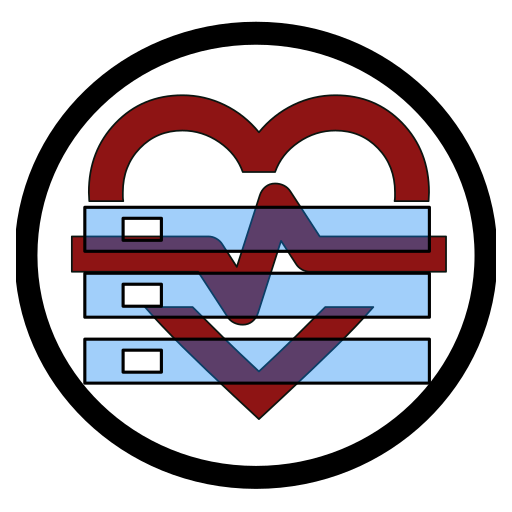
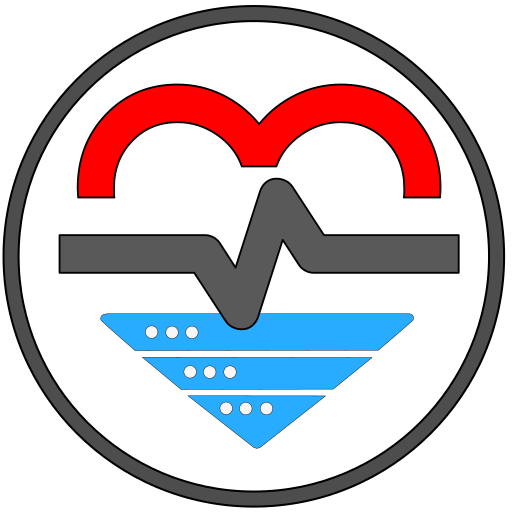
feat: actualizar logotipos self-hosted

diff --git a/public/sw.js b/public/sw.js
@@ -1,4 +1,4 @@
-const CACHE_NAME = 'control-tension-v1.6.0-beta.1-logo-3';
+const CACHE_NAME = 'control-tension-v1.6.0-beta.1-logo-4';
 const APP_SHELL = [
   './',
   './index.html',
